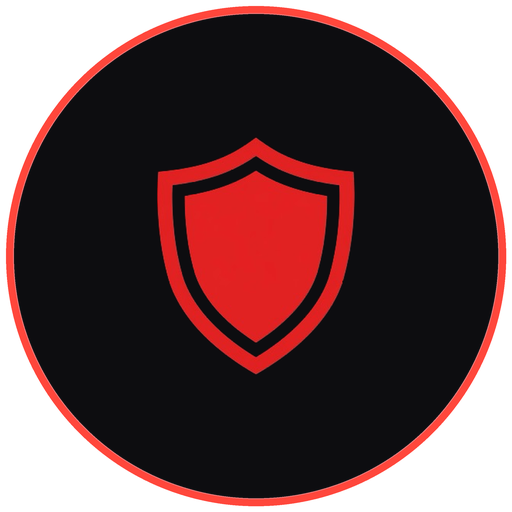
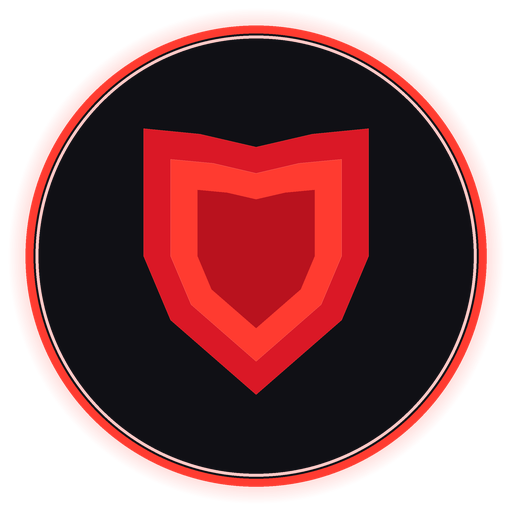
fix(notifications): add service worker lifecycle activation, circular shield medallion, and badge mask

diff --git a/sheild-backend/src/main/resources/static/sw.js b/sheild-backend/src/main/resources/static/sw.js
@@ -1,1 +1,1 @@
-if(!self.define){let e,s={};const i=(i,n)=>(i=new URL(i+".js",n).href,s[i]||new Promise(s=>{if("document"in self){const e=document.createElement("script");e.src=i,e.onload=s,document.head.appendChild(e)}else e=i,importScripts(i),s()}).then(()=>{let e=s[i];if(!e)throw new Error(`Module ${i} didn’t register its module`);return e}));self.define=(n,r)=>{const l=e||("document"in self?document.currentScript.src:"")||location.href;if(s[l])return;let t={};const o=e=>i(e,l),a={module:{uri:l},exports:t,require:o};s[l]=Promise.all(n.map(e=>a[e]||o(e))).then(e=>(r(...e),t))}}define(["./workbox-8c29f6e4"],function(e){"use strict";importScripts("firebase-messaging-sw.js"),self.skipWaiting(),e.clientsClaim(),e.precacheAndRoute([{url:"registerSW.js",revision:"1872c500de691dce40960bb85481de07"},{url:"index.html",revision:"35a71fe1f7aedc8923a738462c6c7b40"},{url:"assets/leaflet-Dgihpmma.css",revision:null},{url:"assets/leaflet-DA8qFLr_.js",revision:null},{url:"assets/index-pAE_lVU1.js",revision:null},{url:"assets/index-IFI7GK6Z.css",revision:null},{url:"assets/SafeZonesMap-DSwS-s_9.js",revision:null},{url:"assets/LeafletMapComponent-C9p4tJ34.js",revision:null},{url:"firebase-messaging-sw.js",revision:"8f60731bc539bbd9ab99c44ab967895e"},{url:"sheild-pwa-192.png",revision:"4e05482ae435edcc3770071837762af3"},{url:"sheild-pwa-512.png",revision:"1631980eaf7e0a3cbc9c3e7d6224ffc7"},{url:"shield-badge.png",revision:"f7e2254f2780fb50291be35c52deda1d"},{url:"shield-logo.png",revision:"4e05482ae435edcc3770071837762af3"},{url:"manifest.webmanifest",revision:"4f5ef8bfd644fc9348b2e0eb6cfbb782"}],{}),e.cleanupOutdatedCaches(),e.registerRoute(new e.NavigationRoute(e.createHandlerBoundToURL("index.html"),{denylist:[/firebase-messaging-sw\.js/]}))});
+if(!self.define){let e,s={};const i=(i,n)=>(i=new URL(i+".js",n).href,s[i]||new Promise(s=>{if("document"in self){const e=document.createElement("script");e.src=i,e.onload=s,document.head.appendChild(e)}else e=i,importScripts(i),s()}).then(()=>{let e=s[i];if(!e)throw new Error(`Module ${i} didn’t register its module`);return e}));self.define=(n,r)=>{const l=e||("document"in self?document.currentScript.src:"")||location.href;if(s[l])return;let t={};const o=e=>i(e,l),a={module:{uri:l},exports:t,require:o};s[l]=Promise.all(n.map(e=>a[e]||o(e))).then(e=>(r(...e),t))}}define(["./workbox-8c29f6e4"],function(e){"use strict";importScripts("firebase-messaging-sw.js"),self.skipWaiting(),e.clientsClaim(),e.precacheAndRoute([{url:"registerSW.js",revision:"1872c500de691dce40960bb85481de07"},{url:"index.html",revision:"35a71fe1f7aedc8923a738462c6c7b40"},{url:"assets/leaflet-Dgihpmma.css",revision:null},{url:"assets/leaflet-DA8qFLr_.js",revision:null},{url:"assets/index-pAE_lVU1.js",revision:null},{url:"assets/index-IFI7GK6Z.css",revision:null},{url:"assets/SafeZonesMap-DSwS-s_9.js",revision:null},{url:"assets/LeafletMapComponent-C9p4tJ34.js",revision:null},{url:"firebase-messaging-sw.js",revision:"0ace070052c5cb464166863825bf84ea"},{url:"sheild-pwa-192.png",revision:"427783afb8c1f7b904016137350f9417"},{url:"sheild-pwa-512.png",revision:"b5d35a52d04c7dbe1b8a5a92ba6a4992"},{url:"shield-badge.png",revision:"2bcdefb6d7166e24725b655ca859d958"},{url:"shield-logo.png",revision:"427783afb8c1f7b904016137350f9417"},{url:"manifest.webmanifest",revision:"4f5ef8bfd644fc9348b2e0eb6cfbb782"}],{}),e.cleanupOutdatedCaches(),e.registerRoute(new e.NavigationRoute(e.createHandlerBoundToURL("index.html"),{denylist:[/firebase-messaging-sw\.js/]}))});

diff --git a/sheild-backend/src/main/resources/static/firebase-messaging-sw.js b/sheild-backend/src/main/resources/static/firebase-messaging-sw.js
@@ -10,6 +10,14 @@ firebase.initializeApp({
   appId: "1:296306996390:web:ca1b7c1141a1cd0f447067"
 });
 
+self.addEventListener('install', () => {
+  self.skipWaiting();
+});
+
+self.addEventListener('activate', (event) => {
+  event.waitUntil(self.clients.claim());
+});
+
 const messaging = firebase.messaging();
 
 messaging.onBackgroundMessage((payload) => {
@@ -19,10 +27,11 @@ messaging.onBackgroundMessage((payload) => {
   // Create stylized, high-contrast title & body for the service worker alert
   const { title, body } = getFormattedNotification(type, fromName, payload);
 
+  const baseUrl = self.location.origin;
   const notifOptions = {
     body: body,
-    icon: '/shield-logo.png',
-    badge: '/shield-badge.png',
+    icon: baseUrl + '/shield-logo.png',
+    badge: baseUrl + '/shield-badge.png',
     vibrate: type === 'sos' ? [400, 150, 400, 150, 400] : [200, 100, 200],
     data: {
       type: type,

diff --git a/sheild-frontend/public/firebase-messaging-sw.js b/sheild-frontend/public/firebase-messaging-sw.js
@@ -10,6 +10,14 @@ firebase.initializeApp({
   appId: "1:296306996390:web:ca1b7c1141a1cd0f447067"
 });
 
+self.addEventListener('install', () => {
+  self.skipWaiting();
+});
+
+self.addEventListener('activate', (event) => {
+  event.waitUntil(self.clients.claim());
+});
+
 const messaging = firebase.messaging();
 
 messaging.onBackgroundMessage((payload) => {
@@ -19,10 +27,11 @@ messaging.onBackgroundMessage((payload) => {
   // Create stylized, high-contrast title & body for the service worker alert
   const { title, body } = getFormattedNotification(type, fromName, payload);
 
+  const baseUrl = self.location.origin;
   const notifOptions = {
     body: body,
-    icon: '/shield-logo.png',
-    badge: '/shield-badge.png',
+    icon: baseUrl + '/shield-logo.png',
+    badge: baseUrl + '/shield-badge.png',
     vibrate: type === 'sos' ? [400, 150, 400, 150, 400] : [200, 100, 200],
     data: {
       type: type,

diff --git a/sheild-backend/src/main/java/com/sheild/service/FcmService.java b/sheild-backend/src/main/java/com/sheild/service/FcmService.java
@@ -37,13 +37,16 @@ public class FcmService {
                 .putHeader("Urgency", isSos ? "high" : "normal")
                 .build();
 
+            Map<String, String> payloadData = new java.util.HashMap<>(data != null ? data : Map.of());
+            payloadData.put("icon", SHIELD_ICON_URL);
+            payloadData.put("badge", SHIELD_BADGE_URL);
+
             MulticastMessage message = MulticastMessage.builder()
                 .addAllTokens(tokens)
-                .putAllData(data)
+                .putAllData(payloadData)
                 .setNotification(com.google.firebase.messaging.Notification.builder()
                     .setTitle(title)
                     .setBody(body)
-                    .setImage(SHIELD_ICON_URL)
                     .build())
                 .setAndroidConfig(AndroidConfig.builder()
                     .setPriority(isSos ?
